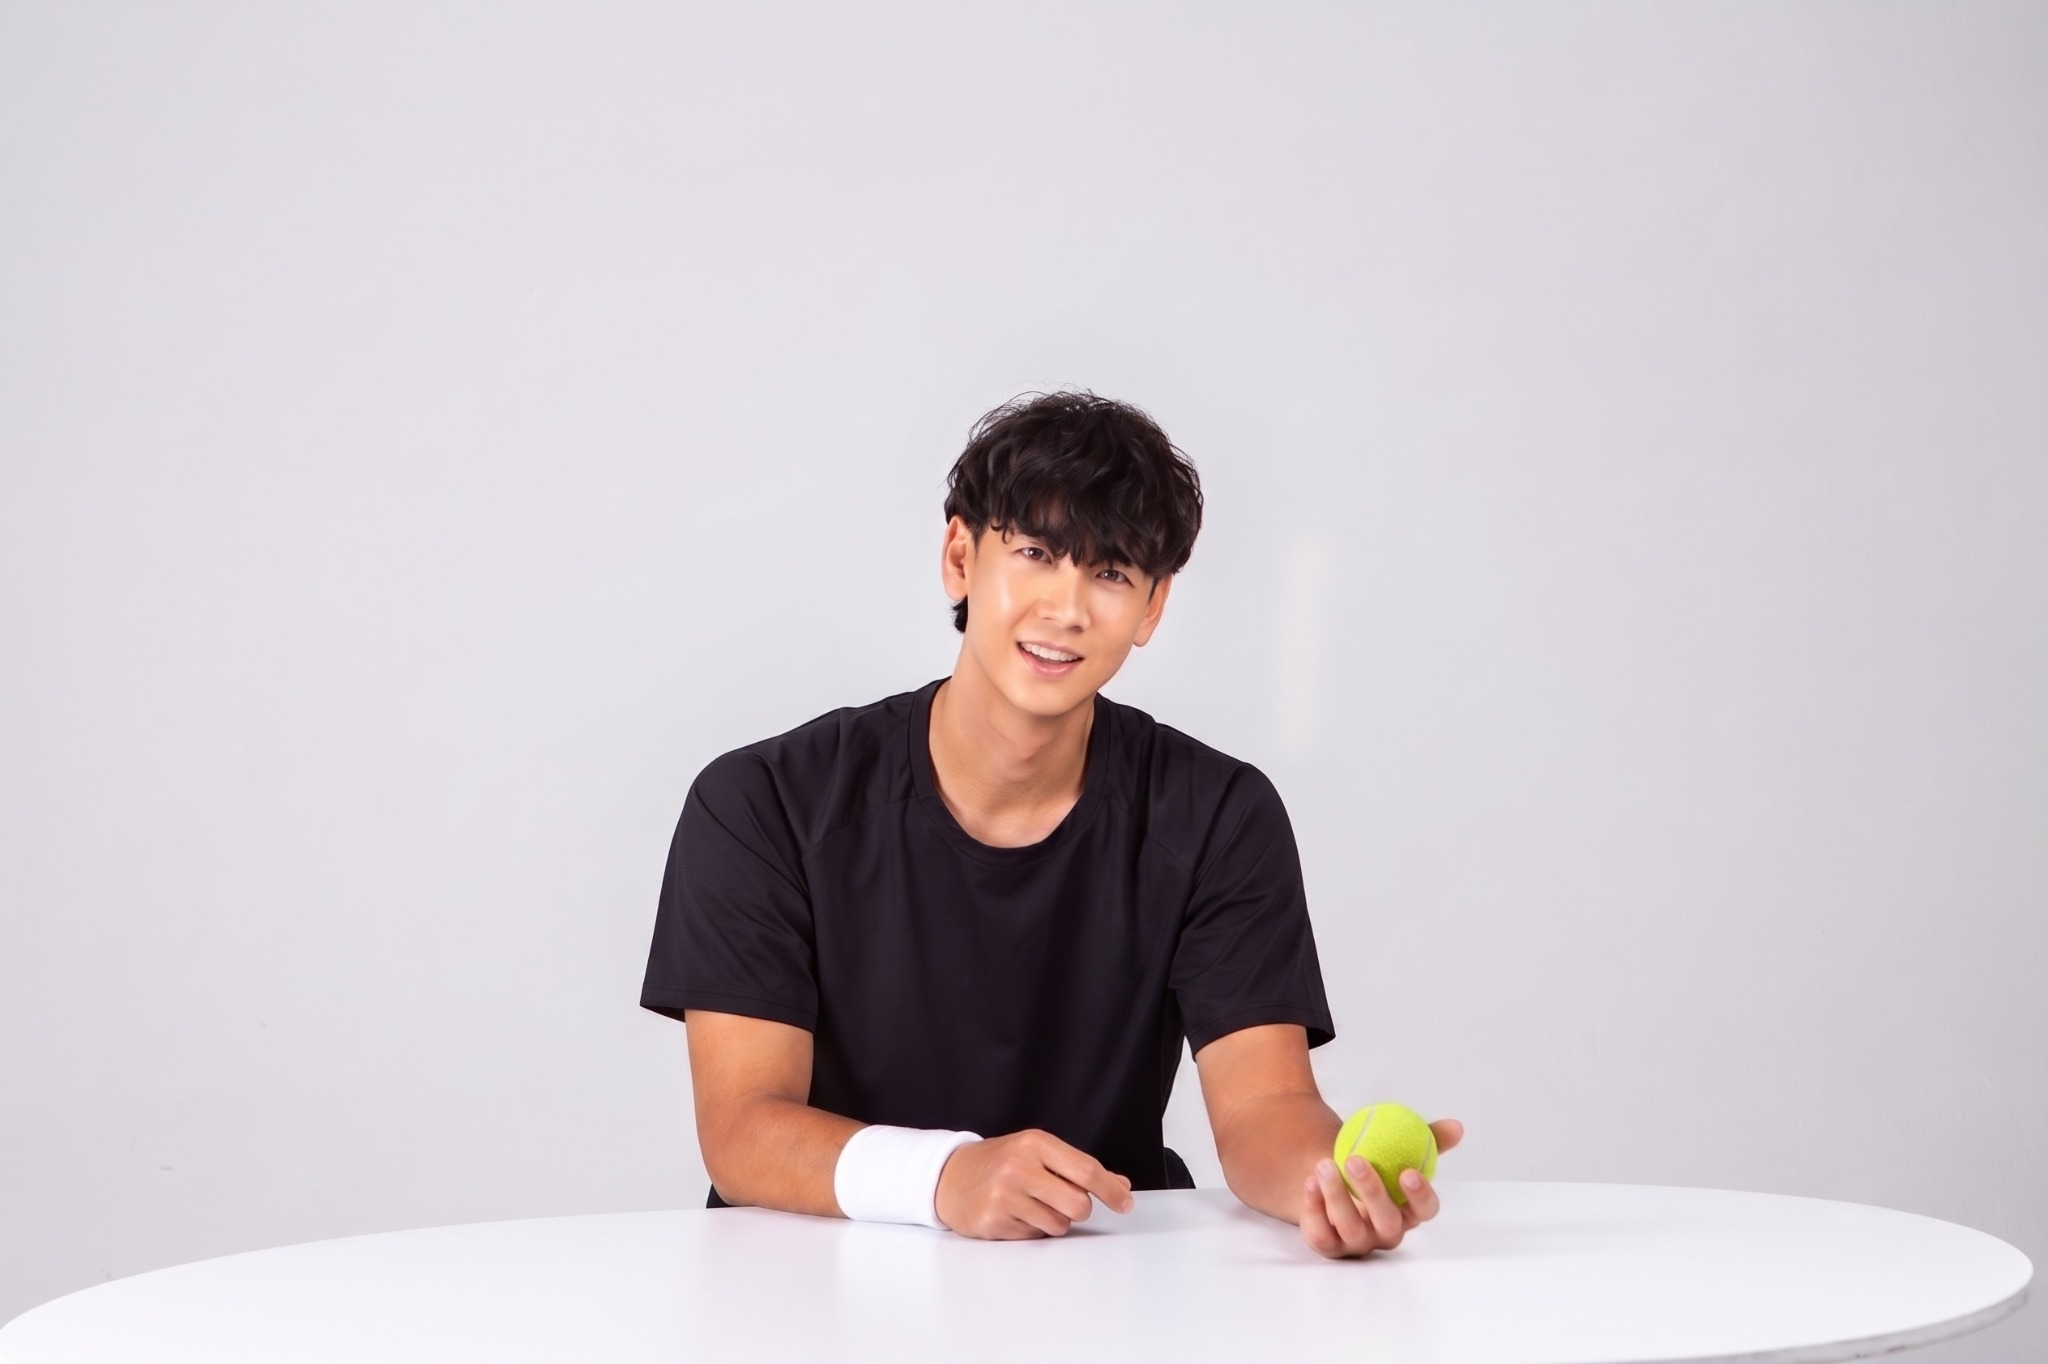
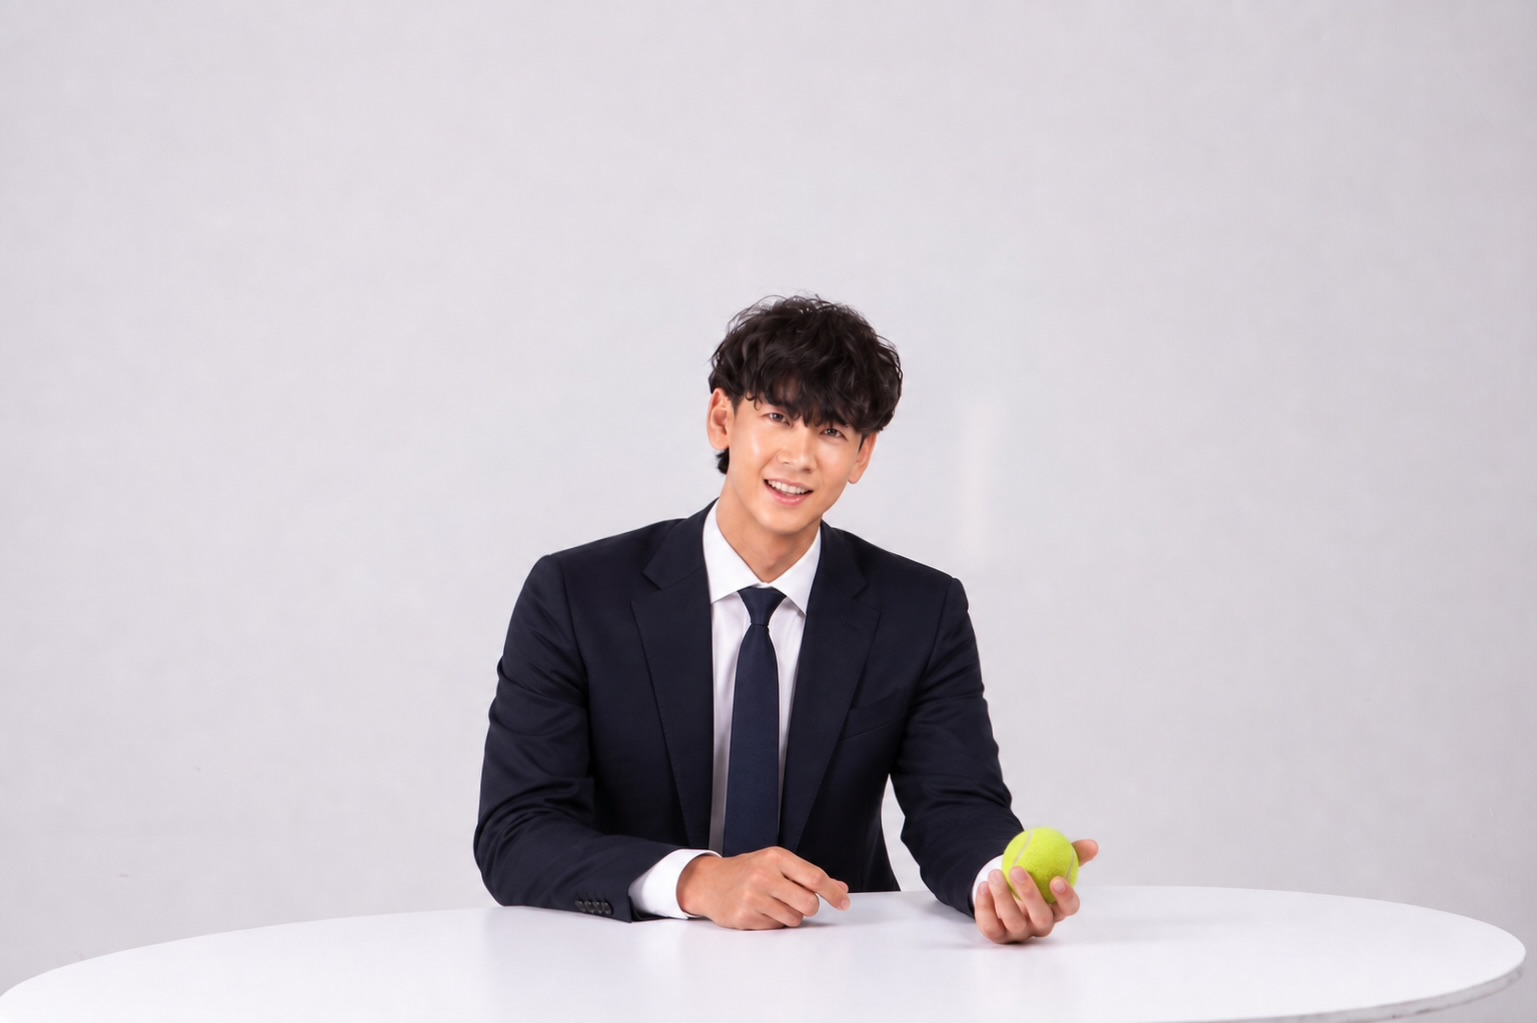
content(director): use oh-director-2026.jpeg for the director message portrait
The new photo was uploaded but code still referenced oh-director-2.png, so it
never showed. Point directorMessage.image (ko + en) to the new asset.

diff --git a/lib/site-data.ts b/lib/site-data.ts
@@ -167,7 +167,7 @@ export const founding = {
 export const directorMessage = {
   eyebrow: "Executive Director's Message",
   title: "대표 원장 인사말",
-  image: "/coaches/ohseonggook/oh-director-2.png",
+  image: "/coaches/ohseonggook/oh-director-2026.jpeg",
   signature: "GCM 아카데미 대표 원장 오성국 올림",
   homeSummary: [
     "안녕하세요. GCM 아카데미 대표 원장 오성국입니다. 저희 GCM 아카데미를 찾아주신 학부모님과 선수 여러분께 마음 깊이 감사드립니다.",

diff --git a/lib/site-content.ts b/lib/site-content.ts
@@ -296,7 +296,7 @@ const enFaqContact = {
 const enDirectorMessage = {
   eyebrow: "Executive Director's Message",
   title: "A Message from the Director",
-  image: "/coaches/ohseonggook/oh-director-2.png",
+  image: "/coaches/ohseonggook/oh-director-2026.jpeg",
   signature: "Oh Seong-gook, Founder & Director, GCM Academy",
   homeSummary: [
     "Hello. I am Oh Seong-gook, Founder and Director of GCM Academy. To every parent and athlete who has found their way to us, thank you from the bottom of my heart.",
